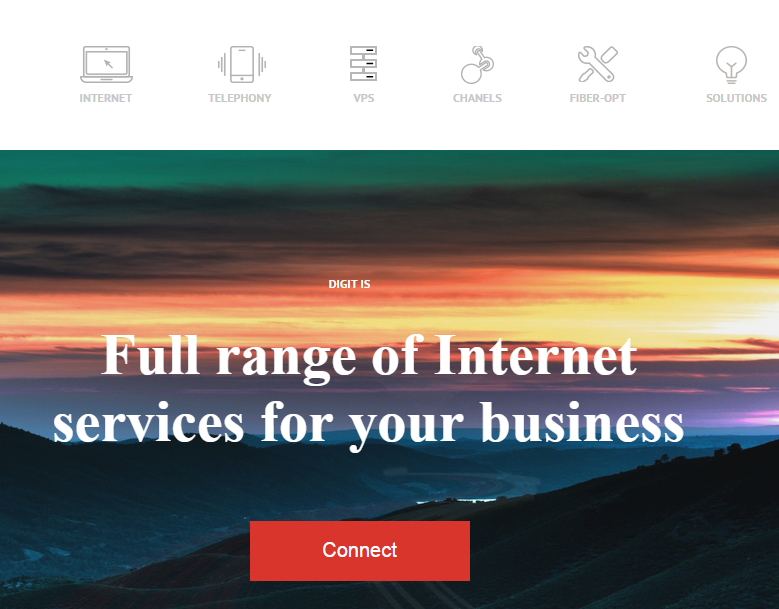
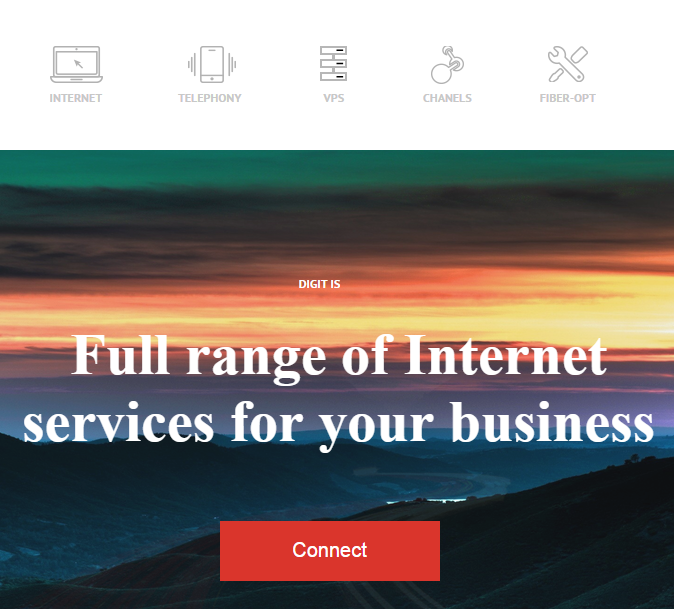
Repair img

diff --git a/index.html b/index.html
@@ -9,7 +9,7 @@
     <meta name="description" content="">
     <meta name="author" content="">
 
-    <title>Ivan Burlaka</title>
+    <title>Andrey Rymanov</title>
 
     <link href="css/bootstrap.min.css" rel="stylesheet">
 
@@ -256,7 +256,7 @@
                         <div class="modal-body">
                             <h2>Digit</h2>
                             <hr class="star-primary">
-                            <a href="http://ulyss204.github.io/test/" target="_blank"><img src="img/portfolio/Digit.png" class="img-responsive img-centered" alt=""></a>
+                            <a href="http://ulyss204.github.io/test/" target="_blank"><img src="img/portfolio/Digit1.png" class="img-responsive img-centered" alt=""></a>
                             <p>This web page was my friend's task to get the job.I made it to see the requirements to junior front-end developer. While making this website I learned more stuff than ever before. That was the moment I realized that learning by doing is the best approach for effective learning. </p>
                             <button type="button" class="btn btn-default" data-dismiss="modal"><i class="fa fa-times"></i> Close</button>
                         </div>
